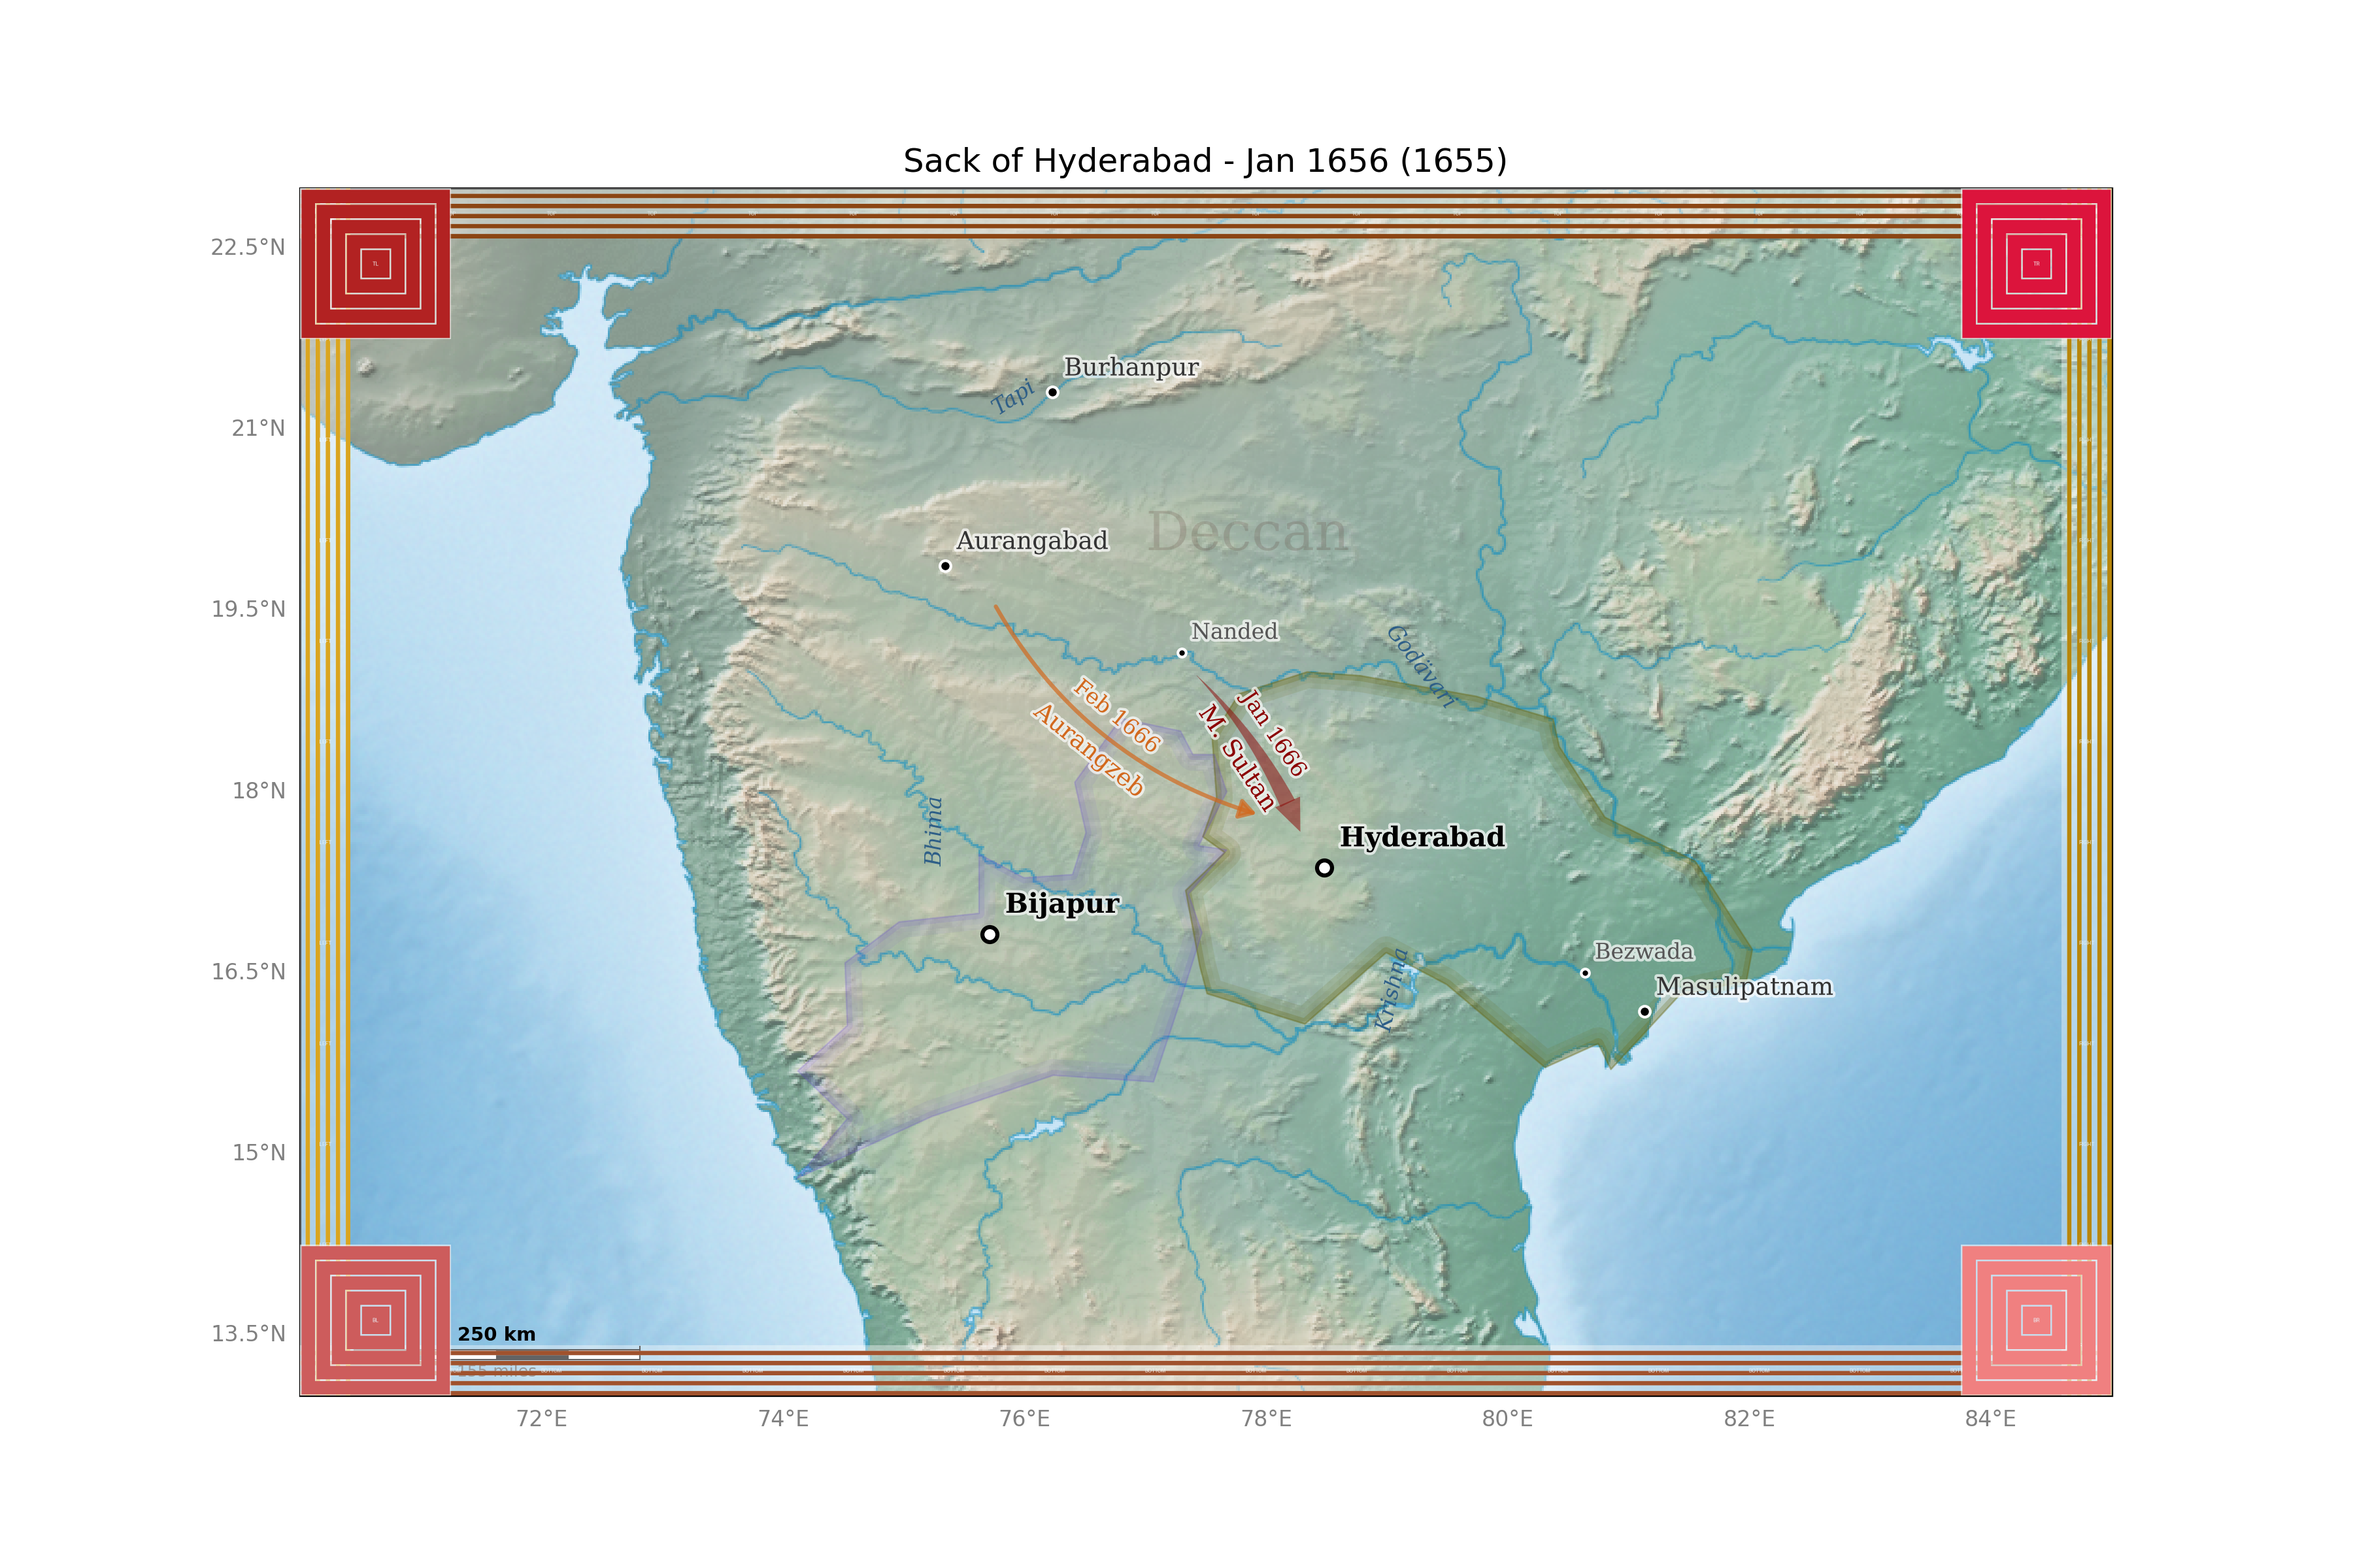
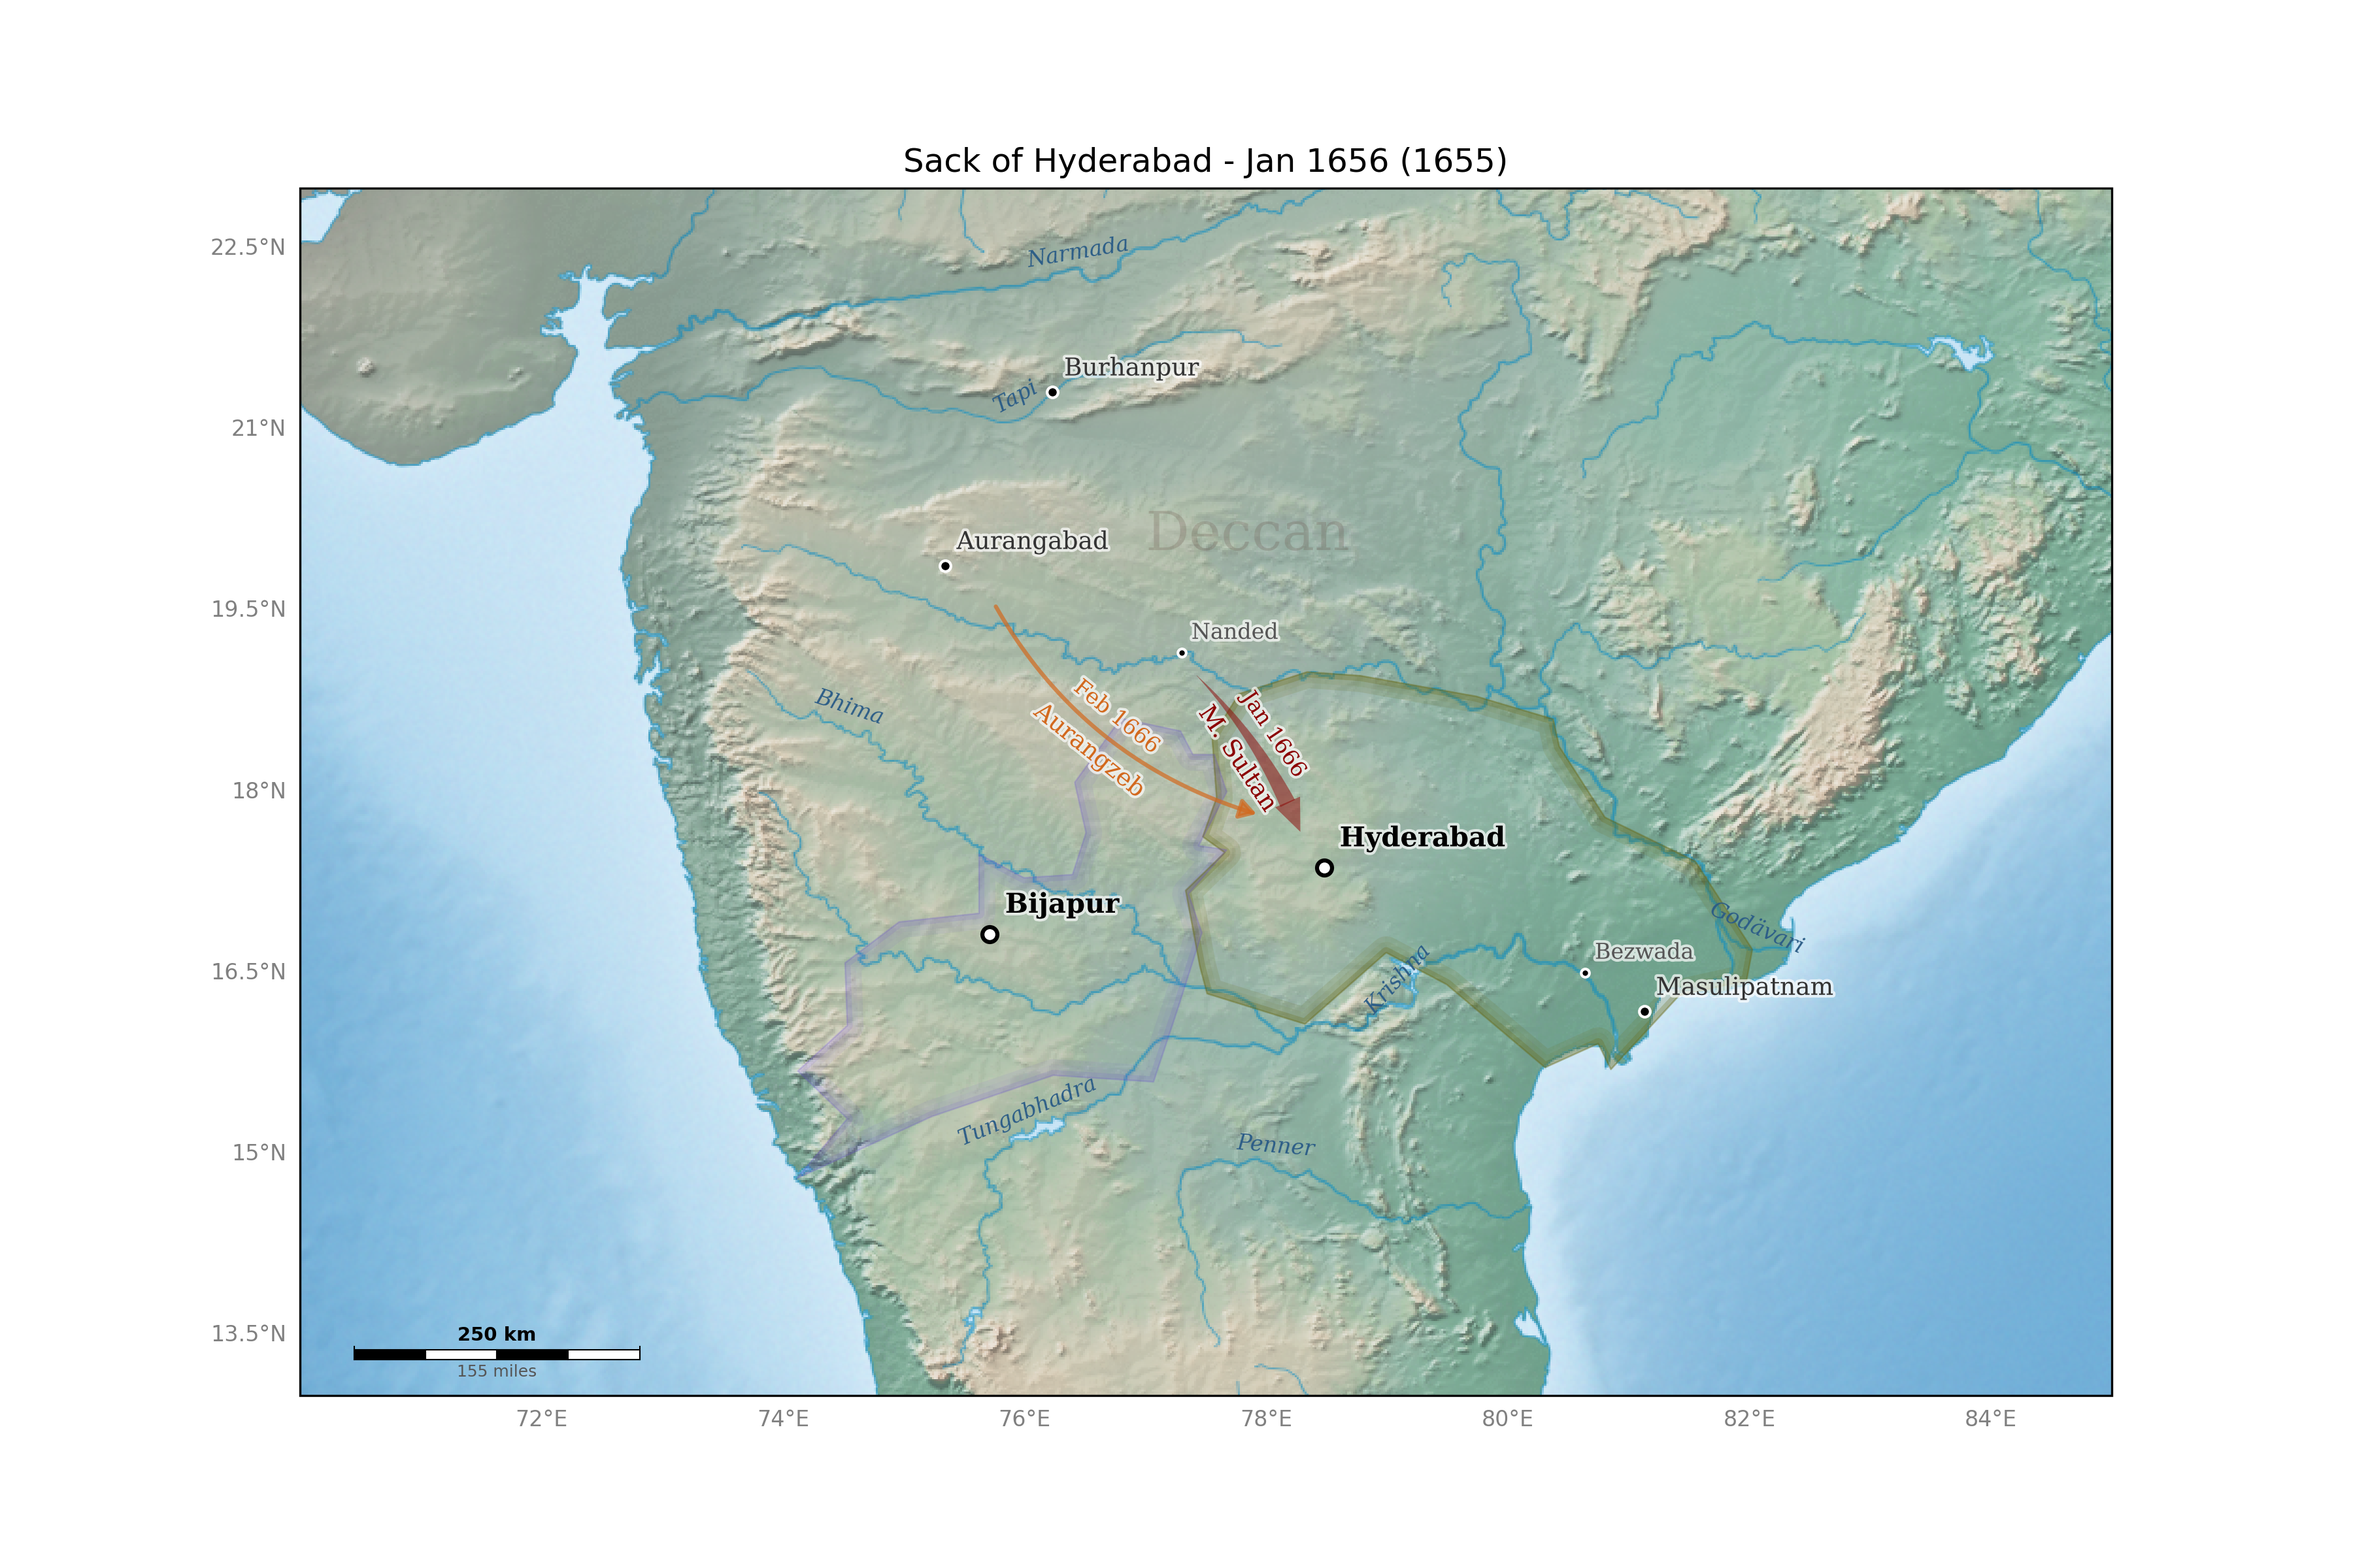
river placement now looks at segments and also prefers more horiz labels

diff --git a/src/history_cartopy/river_alignment.py b/src/history_cartopy/river_alignment.py
@@ -36,6 +36,26 @@ def angle_to_normal(angle_deg):
     return (math.cos(rad), math.sin(rad))
 
 
+def _angle_penalty(angle):
+    """
+    Compute penalty for angles away from horizontal.
+
+    Horizontal labels (angle near 0°) are easiest to read.
+    Angles within ±30° of horizontal have no penalty.
+    Penalty increases linearly as angle approaches ±90°.
+
+    Args:
+        angle: Angle in degrees, normalized to [-90, +90]
+
+    Returns:
+        Penalty value: 0 for angles in [-30, +30], up to 60 for ±90°
+    """
+    abs_angle = abs(angle)
+    if abs_angle <= 30:
+        return 0
+    return abs_angle - 30
+
+
 def _get_rivers_path(data_dir):
     """Get path to the Natural Earth rivers shapefile."""
     return os.path.join(data_dir, 'rivers', 'ne_10m_rivers_lake_centerlines.shp')
@@ -132,56 +152,67 @@ def _geometry_to_linestrings(geom):
         return []
 
 
-def _calculate_angle_at_point(line, point, search_radius=0.5):
+def _normalize_angle(angle):
+    """Normalize angle to [-90, +90] so text is always readable."""
+    if angle > 90:
+        return angle - 180
+    elif angle < -90:
+        return angle + 180
+    return angle
+
+
+def _calculate_angle_over_stretch(line, point, label_width_deg=None):
     """
-    Calculate the tangent angle of a line at the nearest point.
+    Calculate the angle of a river stretch that would be covered by a label.
+
+    Instead of using the tangent at a single point, this finds the chord
+    angle over the stretch of river that the label would span.
 
     Args:
         line: LineString geometry
-        point: Point to find angle at
-        search_radius: Search radius in degrees (for finding segment)
+        point: Center point for the label
+        label_width_deg: Width of the label in degrees. If None, falls back
+                         to single-segment tangent calculation.
 
     Returns:
         Angle in degrees (0 = horizontal, positive = counter-clockwise)
     """
-    # Find the closest point on the line
-    nearest_on_line, _ = nearest_points(line, point)
+    # Find where on the line this point falls
+    dist_along = line.project(point)
+    total_length = line.length
 
-    # Get line coordinates
-    coords = list(line.coords)
-    if len(coords) < 2:
+    if label_width_deg and label_width_deg > 0:
+        # Find start and end points of the stretch
+        half_width = label_width_deg / 2
+        start_dist = max(0, dist_along - half_width)
+        end_dist = min(total_length, dist_along + half_width)
+
+        # Get the actual points on the line
+        start_point = line.interpolate(start_dist)
+        end_point = line.interpolate(end_dist)
+
+        dx = end_point.x - start_point.x
+        dy = end_point.y - start_point.y
+    else:
+        # Fallback: use a small delta around the point
+        delta = min(0.1, total_length / 10)
+        start_dist = max(0, dist_along - delta)
+        end_dist = min(total_length, dist_along + delta)
+
+        start_point = line.interpolate(start_dist)
+        end_point = line.interpolate(end_dist)
+
+        dx = end_point.x - start_point.x
+        dy = end_point.y - start_point.y
+
+    if dx == 0 and dy == 0:
         return 0
 
-    # Find the segment containing or nearest to the closest point
-    min_dist = float('inf')
-    best_segment = (coords[0], coords[1])
-
-    for i in range(len(coords) - 1):
-        p1, p2 = coords[i], coords[i + 1]
-        seg = LineString([p1, p2])
-        dist = seg.distance(nearest_on_line)
-        if dist < min_dist:
-            min_dist = dist
-            best_segment = (p1, p2)
-
-    # Calculate angle from the segment
-    p1, p2 = best_segment
-    dx = p2[0] - p1[0]
-    dy = p2[1] - p1[1]
-
-    # atan2 returns radians, convert to degrees
     angle = math.degrees(math.atan2(dy, dx))
-
-    # Normalize angle so text is always readable (between -90 and +90)
-    if angle > 90:
-        angle -= 180
-    elif angle < -90:
-        angle += 180
-
-    return angle
+    return _normalize_angle(angle)
 
 
-def get_river_angle(river_name, coords, data_dir, search_radius=0.5):
+def get_river_angle(river_name, coords, data_dir, label_width_deg=None):
     """
     Get the rotation angle for a river label based on river direction.
 
@@ -189,7 +220,7 @@ def get_river_angle(river_name, coords, data_dir, search_radius=0.5):
         river_name: Name of the river (e.g., "Brahmaputra")
         coords: (lon, lat) tuple for label position
         data_dir: Path to data directory containing rivers shapefile
-        search_radius: Search radius in degrees for finding nearest segment
+        label_width_deg: Width of the label in degrees (for stretch-based calculation)
 
     Returns:
         Rotation angle in degrees, or 0 if river not found
@@ -221,12 +252,13 @@ def get_river_angle(river_name, coords, data_dir, search_radius=0.5):
             min_dist = dist
             closest_line = line
 
-    angle = _calculate_angle_at_point(closest_line, point, search_radius)
+    angle = _calculate_angle_over_stretch(closest_line, point, label_width_deg)
     logger.info(f"River '{river_name}' at {coords}: rotation={angle:.1f}°")
     return angle
 
 
-def sample_river_positions(river_name, extent, data_dir, padding=0.5, hint_coords=None):
+def sample_river_positions(river_name, extent, data_dir, padding=0.5, hint_coords=None,
+                           label_width_deg=None):
     """
     Sample candidate positions along a river's geometry within map extents.
 
@@ -238,11 +270,13 @@ def sample_river_positions(river_name, extent, data_dir, padding=0.5, hint_coord
         hint_coords: Optional (lon, lat) tuple to guide candidate generation.
                      When provided, candidates are only generated within 1/4
                      of the map extent around the hint position.
+        label_width_deg: Width of label in degrees. Used to calculate angle
+                         over the stretch of river the label would cover.
 
     Returns:
         List of (lon, lat, angle, normal) tuples for candidate positions,
         where normal is a (nx, ny) unit vector perpendicular to river direction.
-        Sorted by preference (closest to hint or middle of river first).
+        Sorted by preference (horizontal angles first, then by location).
         Returns empty list if river not found.
     """
     river_data = _load_rivers(data_dir)
@@ -334,8 +368,8 @@ def sample_river_positions(river_name, extent, data_dir, padding=0.5, hint_coord
                 line_filtered += 1
                 continue
 
-            # Calculate angle at this point
-            angle = _calculate_angle_at_point(line, point)
+            # Calculate angle over the stretch the label would cover
+            angle = _calculate_angle_over_stretch(line, point, label_width_deg)
             normal = angle_to_normal(angle)
 
             candidates.append((lon, lat, angle, normal, fraction))
@@ -359,7 +393,7 @@ def sample_river_positions(river_name, extent, data_dir, padding=0.5, hint_coord
             dist = map_center.distance(nearest_on_line)
             if dist < min_dist:
                 min_dist = dist
-                angle = _calculate_angle_at_point(line, nearest_on_line)
+                angle = _calculate_angle_over_stretch(line, nearest_on_line, label_width_deg)
                 normal = angle_to_normal(angle)
                 fallback = (nearest_on_line.x, nearest_on_line.y, angle, normal, 0.5)
 
@@ -367,14 +401,23 @@ def sample_river_positions(river_name, extent, data_dir, padding=0.5, hint_coord
             candidates.append(fallback)
             logger.debug(f"River '{river_name}': using fallback position near map center")
 
-    # Sort by preference
+    # Sort by preference: prioritize horizontal angles, then by location preference
+    # Candidate tuple: (lon, lat, angle, normal, fraction)
     if hint_coords:
-        # When hint provided, sort by distance to hint
+        # Primary: angle penalty (horizontal preferred)
+        # Secondary: distance to hint
         hint_lon, hint_lat = hint_coords
-        candidates.sort(key=lambda c: (c[0] - hint_lon)**2 + (c[1] - hint_lat)**2)
+        candidates.sort(key=lambda c: (
+            _angle_penalty(c[2]),
+            (c[0] - hint_lon)**2 + (c[1] - hint_lat)**2
+        ))
     else:
-        # Otherwise prefer positions near middle of river (fraction ~0.5)
-        candidates.sort(key=lambda c: abs(c[4] - 0.5))  # fraction is at index 4
+        # Primary: angle penalty (horizontal preferred)
+        # Secondary: positions near middle of river (fraction ~0.5)
+        candidates.sort(key=lambda c: (
+            _angle_penalty(c[2]),
+            abs(c[4] - 0.5)
+        ))
 
     # Return without the fraction (keep lon, lat, angle, normal)
     result = [(lon, lat, angle, normal) for lon, lat, angle, normal, fraction in candidates]

diff --git a/src/history_cartopy/labels.py b/src/history_cartopy/labels.py
@@ -227,7 +227,12 @@ def collect_labels(gazetteer, manifest, placement_manager, data_dir=None):
             rotation = item.get('rotation')
             if rotation is None and data_dir:
                 from history_cartopy.river_alignment import get_river_angle
-                rotation = get_river_angle(river_name, (lon, lat), data_dir)
+                # Calculate label width for stretch-based angle
+                char_width_pts = river_fontsize * 0.6
+                label_width_pts = len(river_name) * char_width_pts
+                label_width_deg = label_width_pts * pm.dpp
+                rotation = get_river_angle(river_name, (lon, lat), data_dir,
+                                           label_width_deg=label_width_deg)
 
             # Compute normal from rotation
             from history_cartopy.river_alignment import angle_to_normal
@@ -255,9 +260,15 @@ def collect_labels(gazetteer, manifest, placement_manager, data_dir=None):
             # Auto-placement: generate candidate positions
             from history_cartopy.river_alignment import sample_river_positions
 
+            # Calculate label width in degrees for stretch-based angle calculation
+            char_width_pts = river_fontsize * 0.6
+            label_width_pts = len(river_name) * char_width_pts
+            label_width_deg = label_width_pts * pm.dpp
+
             hint_coords = item.get('hint_coords')
             candidates_raw = sample_river_positions(
-                river_name, extent, data_dir, hint_coords=hint_coords
+                river_name, extent, data_dir, hint_coords=hint_coords,
+                label_width_deg=label_width_deg
             )
 
             if not candidates_raw:
